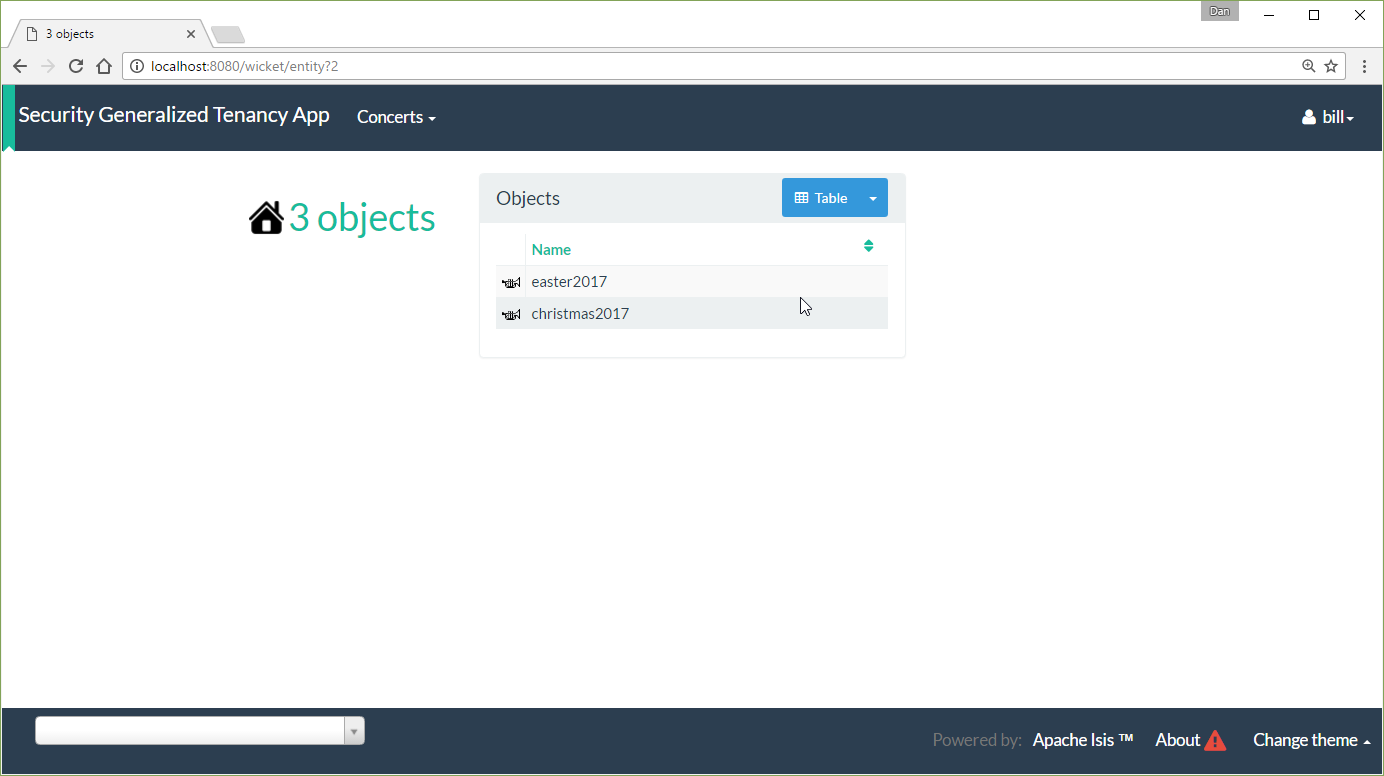
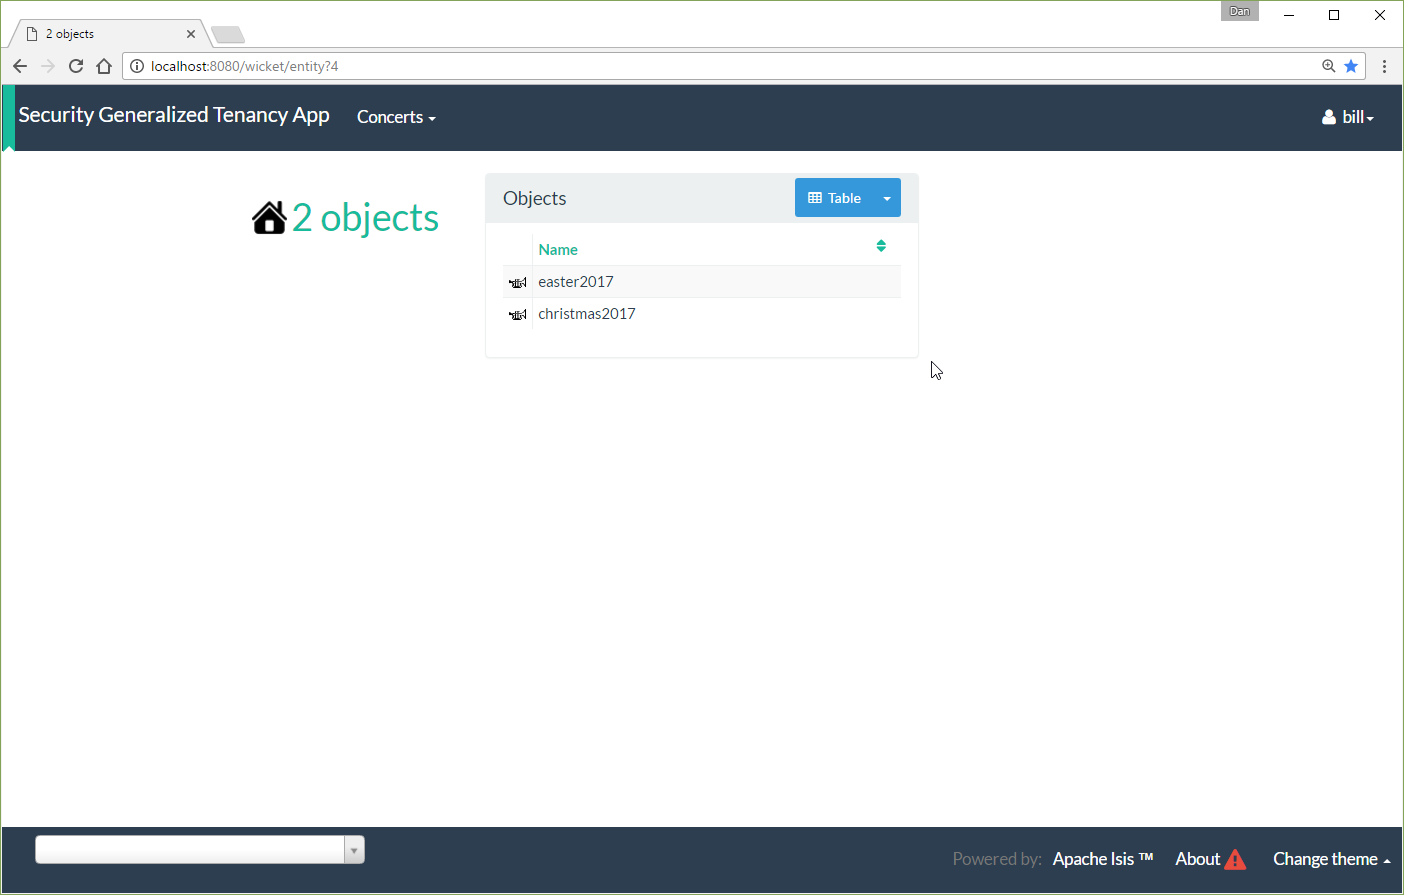
home page view model should wrap the ConcertRepository when returning the count of the number of objects

diff --git a/app/src/main/java/domainapp/app/services/homepage/HomePageViewModel.java b/app/src/main/java/domainapp/app/services/homepage/HomePageViewModel.java
@@ -18,13 +18,13 @@
  */
 package domainapp.app.services.homepage;
 
-import java.util.List;
-
-import org.apache.isis.applib.annotation.ViewModel;
-import org.apache.isis.applib.services.i18n.TranslatableString;
-
 import domainapp.dom.simple.Concert;
 import domainapp.dom.simple.ConcertRepository;
+import org.apache.isis.applib.annotation.ViewModel;
+import org.apache.isis.applib.services.i18n.TranslatableString;
+import org.apache.isis.applib.services.wrapper.WrapperFactory;
+
+import java.util.List;
 
 @ViewModel
 public class HomePageViewModel {
@@ -38,7 +38,7 @@ public class HomePageViewModel {
     //region > object (collection)
     @org.apache.isis.applib.annotation.HomePage
     public List<Concert> getObjects() {
-        return concertRepository.listAll();
+        return wrapperFactory.wrap(concertRepository).listAll();
     }
     //endregion
 
@@ -46,6 +46,8 @@ public class HomePageViewModel {
 
     @javax.inject.Inject
     ConcertRepository concertRepository;
+    @javax.inject.Inject
+    WrapperFactory wrapperFactory;
 
     //endregion
 }
